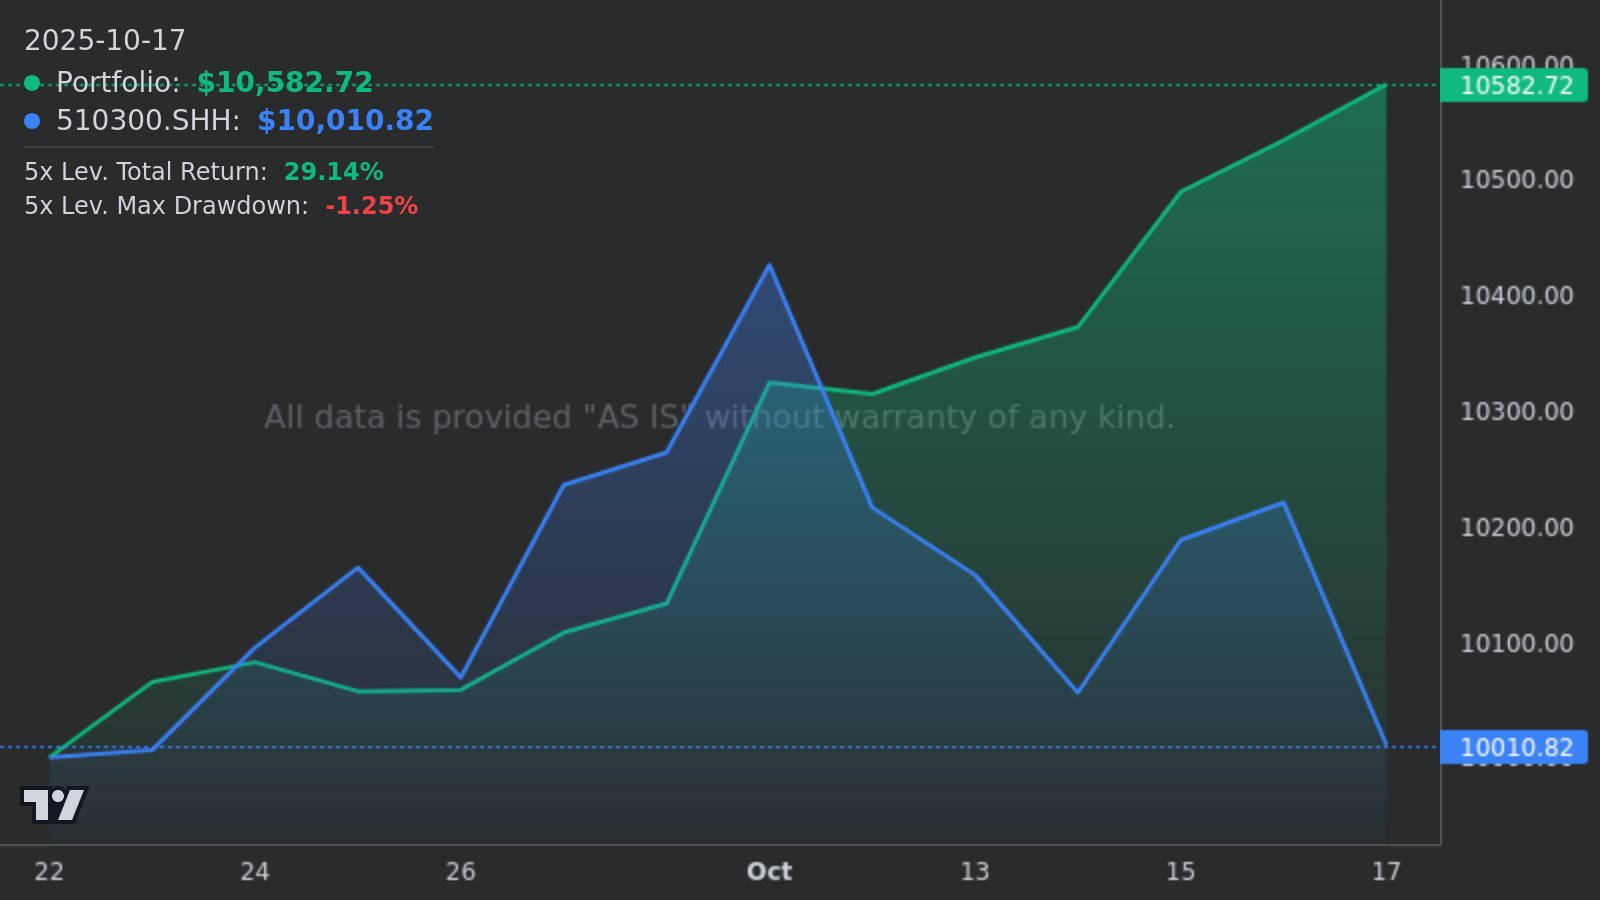
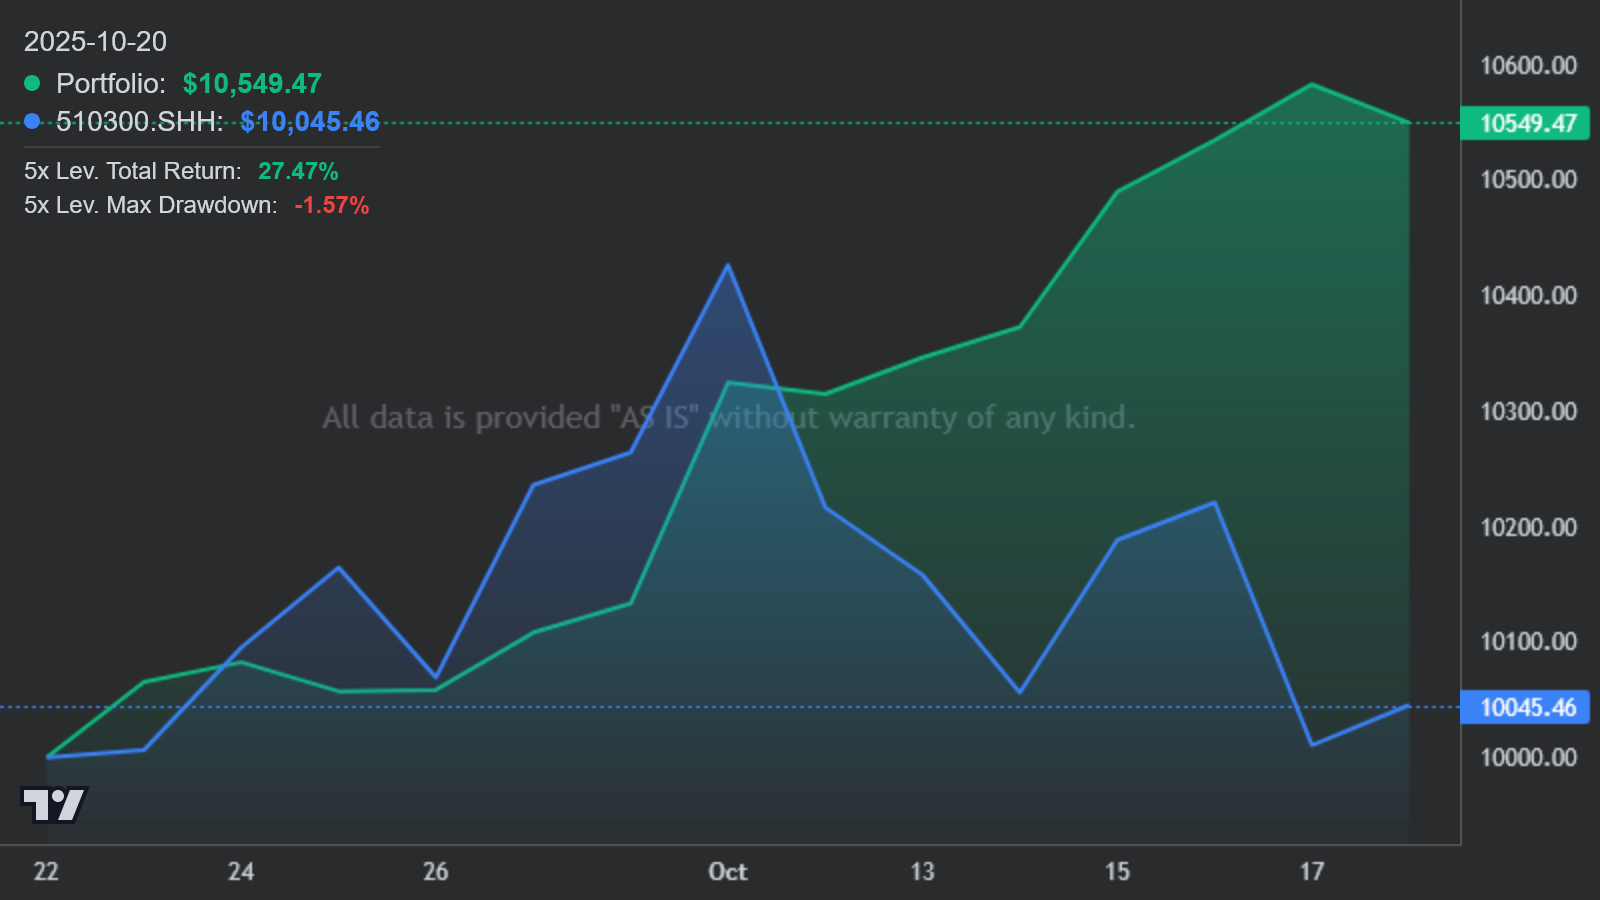
feat: update stock data and metrics with latest values
- Update multiple stock CSV files with latest closing prices
- Replace placeholder API key with actual Alpha Vantage key
- Refresh portfolio metrics and chart data with new calculations
- Update lastUpdated timestamp in data.json

diff --git a/generate_report.py b/generate_report.py
@@ -17,7 +17,7 @@ from zoneinfo import ZoneInfo # 新增导入，用于处理时区
 
 # --- 配置参数 ---
 
-API_KEY = os.getenv("ALPHA_VANTAGE_API_KEY") if os.getenv("ALPHA_VANTAGE_API_KEY") else "114514"
+API_KEY = os.getenv("ALPHA_VANTAGE_API_KEY") if os.getenv("ALPHA_VANTAGE_API_KEY") else "TQONN184ZFV8GHJG"
 if not API_KEY:
     raise ValueError("ALPHA_VANTAGE_API_KEY environment variable not set.")
 CACHE_DIR = "data_cache"
